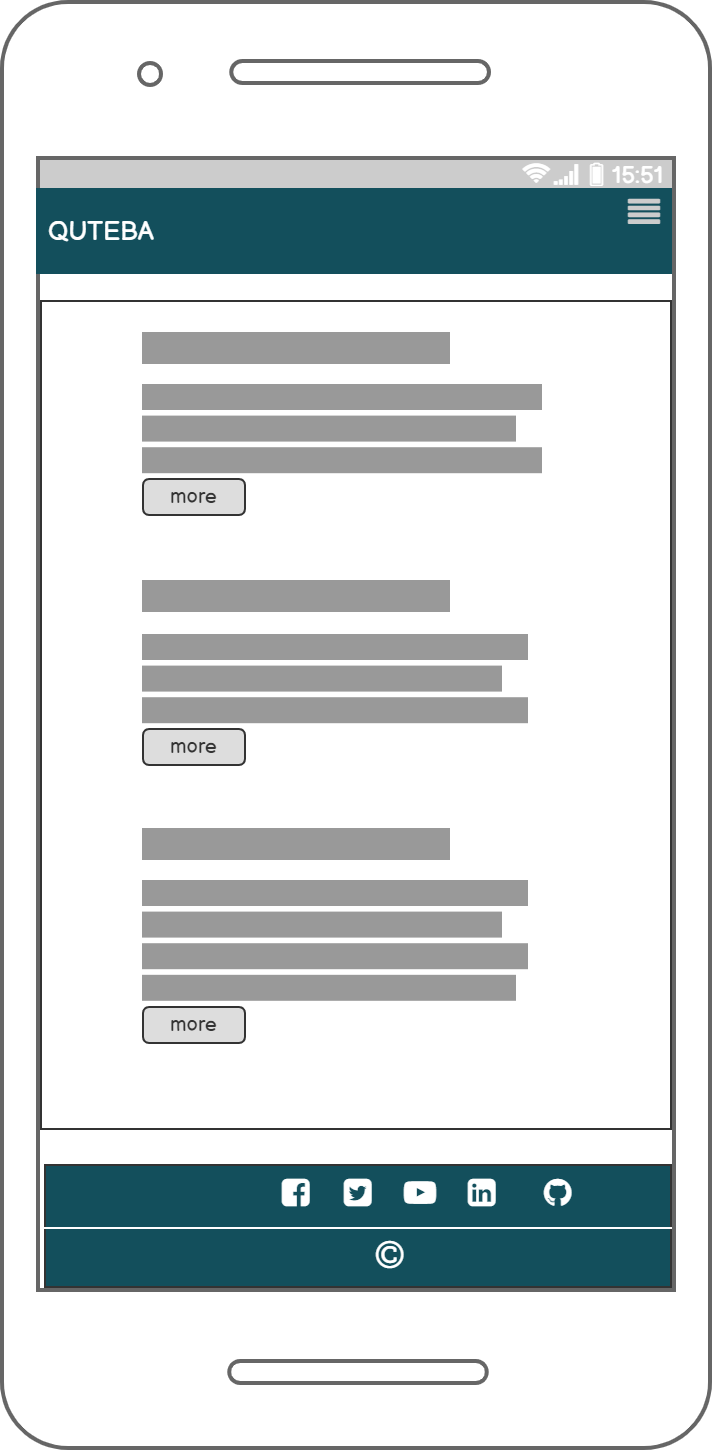
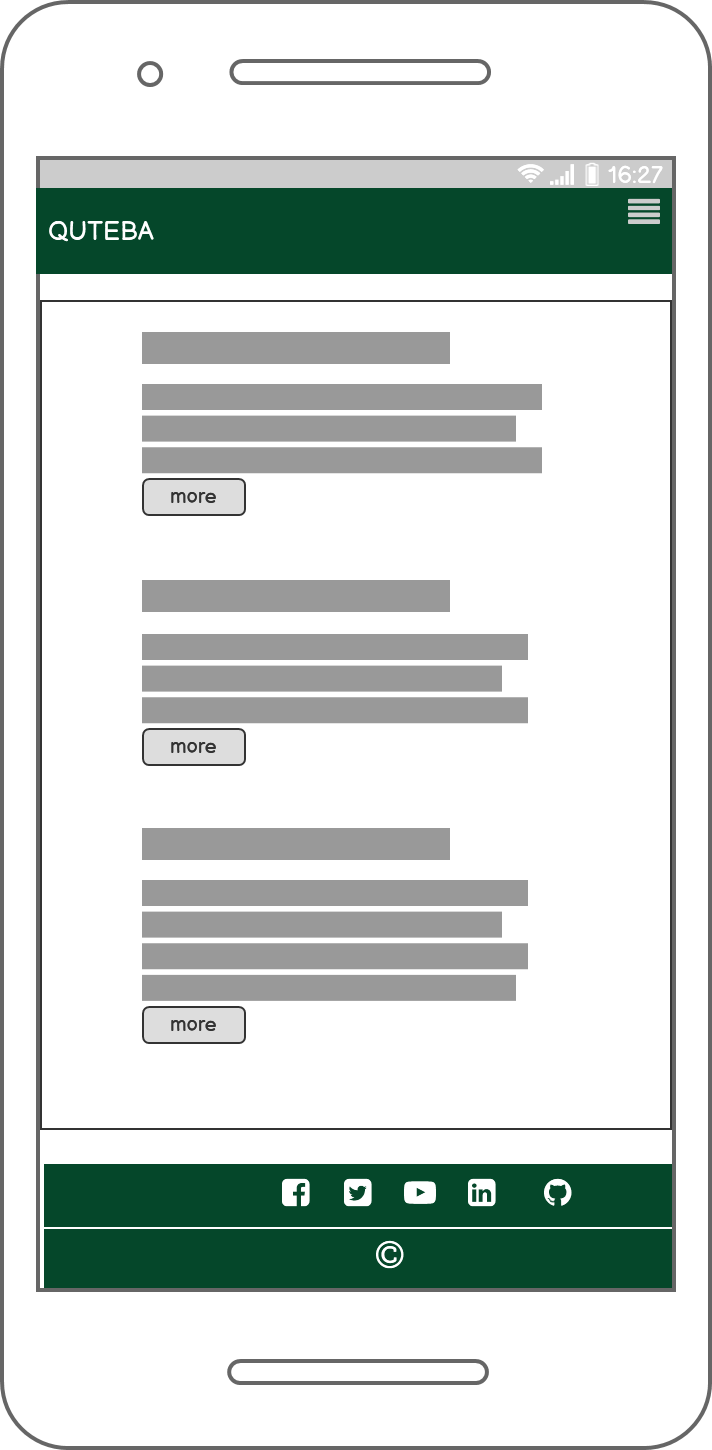
Edit UX section of README and update wireframes

Changed region(s): [[0.0618, 0.7759, 0.9579, 0.9], [0.0309, 0.0931, 0.9579, 0.1862]]

diff --git a/README.md b/README.md
@@ -1,5 +1,5 @@
 # QUTEBA
-Quteba, a Tigrinya word that can roughly be translated as Economy, is a dynamic website that aims to serve the general public by providing views and analyses pertinent to economic issues as well as by enabling users to participate in discussion forums. As users can start discussion forums and engage in discussions by way of comments and replies, Quteba is as much a platform for user created content as it is source of information for those who want to read blog posts.
+Quteba is a dynamic website that aims to serve the general public by providing views and analyses pertinent to economic issues as well as by enabling users to participate in discussion forums. Quteba got its name from a Tigrinya word that can roughly be translated as Economy. Quteba is as much a platform for user created content as it is source of information for those who want to read blog posts. Users can start discussion forums and engage in discussions by way of comments and replies.
 
 Quteba was built using Django framework for the back-end and JavaScript (and Jquery), HTML and CSS (and bootstrap) for the front-end.  
 
@@ -23,7 +23,8 @@ Quteba was built using Django framework for the back-end and JavaScript (and Jqu
         * [Database Schema](#Database-Schema)
     * [The Surface Plane](#The-Surface-Plane)
 * [Features](#features)
-* [Future Enhancements](#future-enhancements)
+    * [Existing Features](#existing-features)
+    * [Future Enhancements](#future-enhancements)
 * [Technologies Used](#technologies-used)
 * [Testing](#testing)
 * [Deployment](#deployment)
@@ -32,34 +33,74 @@ Quteba was built using Django framework for the back-end and JavaScript (and Jqu
 ## UX Design
 
 ### The Strategy Plane
-
+ 
 #### Site Goals
 
-The goal of the website is to provide a platform for users to discuss and understand relevant economic issues. Quteba has a dual purpose: for the average user, it is a place where they can ask questions and get answers from volunteers. For users who are looking for deeper analyses from experts, quteba has a blog where contributors post articles and users can read, comment on or even open a discussion forum if they will.
+* Owner goals: 
+   * The goal of the website is to provide a platform for users to discuss and understand relevant economic issues. Quteba has a dual purpose: for the average user, it is a place where they can ask questions and get answers from other users. For users who are looking for deeper analyses from experts, quteba has a blog where contributors post articles and users can read, comment on or even open a discussion forum if they will.
 
-Users of Quteba are interested in either getting quick answers to specific questions or a deeper insight on a given problem. As such, they want to engage in discussion forums by asking questions, reading comments, replying and/or reacting to the comments and replies others provide. Users are also interested in grasping the various viewpoints on specific economic topics, and thus they want to read articles that synthesize different theories and pieces of information.
+* User goals: 
+   * Users of Quteba are interested in either getting quick answers to specific questions or a deeper insight on a given problem. As such, they want to engage in discussion forums by asking questions, reading comments, replying and/or reacting to the comments and replies others provide. Users are also interested in grasping the various viewpoints on specific economic topics, and thus they want to read articles that synthesize different theories and pieces of information.
 
 #### Epics
-In this project, I created 6 epics which encapsulate the user stories below.
+In this project, the following 8 epics were created which encapsulate the user stories below.
 
-- User registration 
-- User login/logout 
-- Blog app
-- Forum app
-- User engagement
-- Auxiliary pages
+- Useability
+- User authentication
+- User profile  
+- Quteba blog 
+- Quteba forum
+- Nested threads
+- Search for content
+- User interaction 
+
 #### User Stories
-- As a **contributor** I can **create a profile and have my articles listed under my name** so that **readers can follow, read and engage in my work**
-- As a **website user** I can **ask questions and send comments to the site owner** so that **I can get clarifications and express my opinions**
-- As a **site admin** I can **verify authors and approve comments** so that **only relevant and engaging content is shared among readers**
-- As a **reader** I can **follow and share latest activities on social media** so that **I see updates from a social media app I am using**
-- As a **reader** I can **filter and set alert for content in different categories** so that **I do not have to read every article before I find the ones I am interested in**
-- As a **reader** I can **like or unlike posts and comments** so that **I express my reaction without writing comments**
-- As a **subscriber** I can **receive email notifications of new articles** so that **stay updated on relevant economic issues**
-- As a **reader** I can **leave comments and view thread** so that **I become engaged in a conversation on a topic of my interest**
-- As a **contributor** I can **create drafts and publish articles** so that **I can share my views and analyses with readers and receive feedback**
-- As a **site user** I can **create an account** so that **I have access to both public and members only content**
-- As a **reader** I can **view paginated excerpts of articles** so that **I choose which articles to read**
+
+The above user goals and epics were decomposed into user stories that helped me to identify and implement specific features. The user stories and different tasks under them were listed in the project kanban board to keep track of the status of each feature. 
+
+- Useability
+   - As a first time visitor I want to get information about the site so that I can understand the what the site focuses on and how I can make the best out of it.
+   - As a first time visitor, I want to be able to navigate the site so that I can find the most important information with the least amount of effort.
+   - As an engaged user, I want to see relevant feedback so that I can understand if my interactions with the site are successful or not. 
+   - As a user, I want to know which menu item is active so that I can know which part of the site I am navigating at each moment. 
+   - As a user, I want to be able to access quteba's contents and functionalities from my mobile or tablet so that I do not have to wait until I find a computer.
+   - As a frequent user, I want to follow the site owner on social media so that I can see recent activities and updates from my favourite social media apps.
+
+- User authentication
+   - As a first time visitor I want to sign up so that I can have login credentials which I can use to login to the site every time I want to use it. 
+   - As a registered user, I want to be able to login with my registereg credentials so that I can access my profile as well as all the contents and functionalities that require that users be logged in.
+   - As a logged in user, I want to be able to logout easily so that I feel safe that others do not interact with the site via my account.
+
+- User profile 
+   - As a registered user I want to have a profile so that I can choose a profile picture and share my bio with other quteba users.
+   - As a registered user I want to update and delete my profile so that I have control of what I want to do with my personal information.
+
+- Quteba blog
+   - As a reader I want to read excerpts of blog posts so that I choose which articles to read without going through the whole content of each post.
+   - As a contributor I can create drafts and publish posts without entering the admin page so that I can quickly share my views and analyses with readers.
+   - As a regular reader, I want to read the contents of each post on its own page so that I can focus on the contents of the specific post at a time while being able to see other users' feedbacks to the particular post.
+   - As a registered user I want to like posts and add comments so that I can express my impression and engage in a discussion.
+
+- Quteba forum
+   - As a first time visitor I want to see sample forum entries so that I can decide if I want to join the discussions. 
+   - As a registered user, I want to create a discussion forum so that I can get answers to my questions and start conversations.
+   As a user, I want update or delete my own discussion forum so that I can opt out from a conversation that takes a different direction from I initially intended.
+   - As a frequent user, I want to vote up or vote down a forum so that I can quickly reward or punish contents based on their importance and relevance without having to write comments. 
+ 
+- Nested threads
+   - As a dedicated user, I want to reply to comments on a forum I created so that I can open and lead an engaging conversation on relevant topics. 
+   - As a registered user, I want to leave comments on discussion forums so that I can express my views and lead to further discussions.
+   - As a frequent user, I want to like or unlike comments and replies to express my opinions of them without having to write comments or replies.
+   - As a registered user, I want to reply to other users' comments and replies so that I can follow the threads and identify the forkroads that emerge from the discussions.
+   - As a forum reader, I want to see nested threads of forum topics, comments and replies so that I can visually see which replies are given to which comment.
+
+- Search for content
+   - As a user, I want to search for specific content so that I can find quick answers to the questions I have in mind.
+   - As a user, I want to see excerpts of my search results so that I can quickly identify the most relevant content I want to read further.
+
+- User interaction
+   - As a user, I want to interact with the site smoothly so that I can see the effect of my actions without refreshing the pages.  
+   - As a user I want to contact the site admin directly so that I can ask questions and send comments to get clarifications and to express my opinions and expectations.
 
 ### The Scope Plane
 #### Functional specifications
@@ -126,6 +167,9 @@ ERD for the user, profile, blog post, forum category and thread models.
 
 ### The Surface Plane
 
+#### Typography
+
+
 #### Colors
 
 A deep green (British Racing Green) color, which is a calming color, with varying intensity.
@@ -136,6 +180,8 @@ To create a good contrast, I used white text on a deep green background.
 Bootstrap colors primary (for blue) and danger (for red) are used in buttons, the latter being associated with delete buttons. Light salmon was used to make the logo stand out in the deep green background color of the navbar. 
 
 ## Features
+
+### Existing Features
 
 * Quteba serves the aforementioned user stories by providing two broad features: Quteba Blog (Qblog) and Quteba Forum (Qforum). Besides these, it has static pages. 
 
@@ -217,10 +263,13 @@ One of the key principles of Quteba is user engagement. Users can create discuss
 A common characteristic of these modes of user interactions are that they use ajax calls to make the user experience smooth. For the likes and dislikes, one can only like or dislike, but not both, at a time. The same applies to votes: if one has voted up and click on vote down, the up vote is removed and the down vote increases by one.
 
 
-## Future Enhancements
-
+### Future Enhancements
+- Email notifications
+- Ability to view others' profiles and follow them
+- Ability to filter content by category and other criteria
+- Ability to use audio and video in the forum
 ## Technologies Used
-
+This project requires the use of Full Stack Tools. Django was used for the backend and JavaScript, HTML and CSS for the front-end. Postgresql was used for the database and psycopg2 was used as an Object Relational Mapper (ORM) tool. Below is a list of all the technologies used in this project.
 * asgiref==3.5.0
 * cloudinary==1.29.0
 * dj-database-url==0.5.0
@@ -241,10 +290,7 @@ A common characteristic of these modes of user interactions are that they use aj
 * sqlparse==0.4.2
 * tzdata==2022.1
 
-------
-
 - ### Languages:
-    
     + [Python 3.8.5](https://www.python.org/downloads/release/python-385/): the primary language used to develop the server-side of the website.
     + [JS](https://www.javascript.com/): the primary language used to develop interactive components of the website.
     + [HTML](https://developer.mozilla.org/en-US/docs/Web/HTML): the markup language used to create the website.
@@ -274,10 +320,7 @@ A common characteristic of these modes of user interactions are that they use aj
     + [PEP8](https://pep8.org/): was used to validate Python code for the website.
     + [Cloudinary](https://cloudinary.com/): the image hosting service used to upload images and other media.
     + [Techsini](https://techsini.com/multi-mockup/index.php): to generate mock up for responsive design for various screen sizes.
-
-HTML, CSS, Javascript, Bootstrap5, Django
-
-I used [Balsamiq Cloud](https://balsamiq.cloud/) to create wireframes.
+    + [Balsamiq Cloud](https://balsamiq.cloud/) to create wireframes.
 ## Testing
 Detailed testing and test results [are documented here](TESTING.md).
 ### Bugs

diff --git a/TESTING.md b/TESTING.md
@@ -6,7 +6,24 @@
 - I also used [this tutrial](https://developer.mozilla.org/en-US/docs/Learn/Server-side/Django/Testing#overview) as an example and to copy and adapt code for testing views.
 
 
-## Manual Tests
+## Manual Testing
+
+
+
+
+
+|     | User Actions           | Expected Results | Y/N | Comments    |
+|-------------|------------------------|------------------|------|-------------|
+| Sign Up     |                        |                  |      |             |
+| 1           | Click on Sign Up button | Redirection to Sign Up page | Y |          |
+| 2           | Click on the Login link in the form | Redirection to Login page | Y |          |
+| 3           | Enter valid email | Field will only accept email address format + unique email | Y |          |
+| 4           | Enter the same email in the field email | Field will only accept email address format and the email that has been entered in the previous field | Y |          |
+| 5           | Enter valid password  | Field will only accept secure passwords | Y |          |
+| 6          |  |  |  |  
+
+
+
 
 ### Python Validation
 
